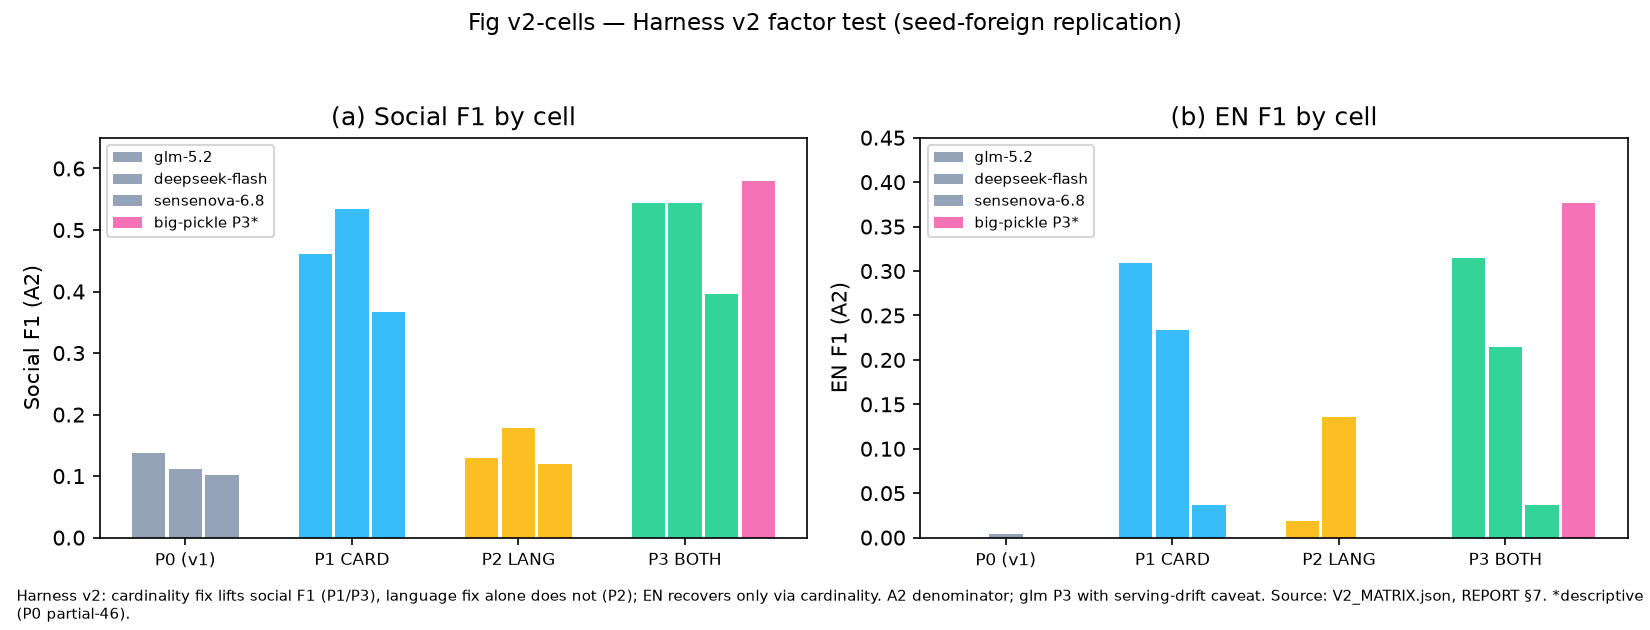
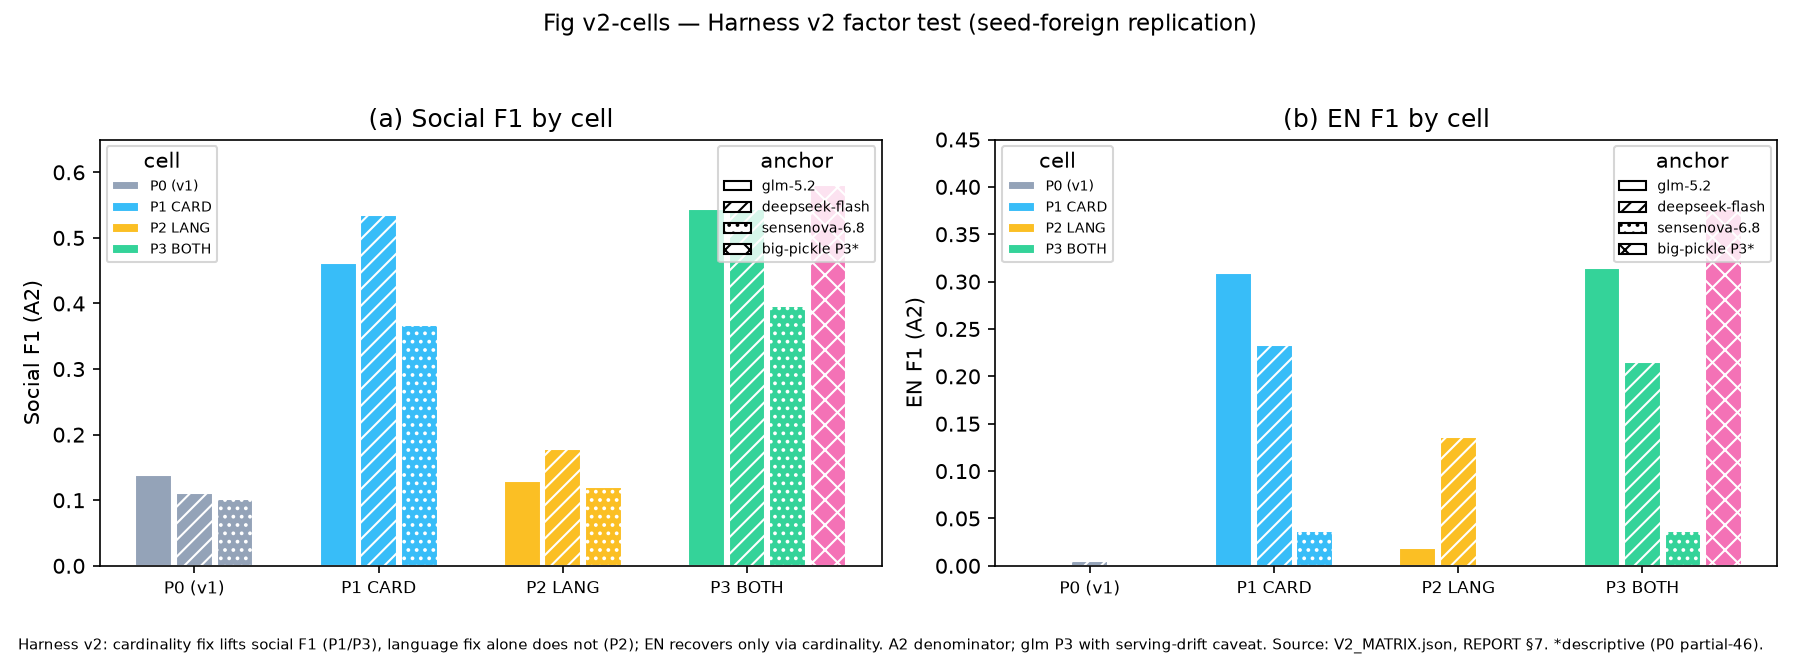
Fix fig_v2_cells legend lie: color=cell + hatch=anchor with dual legends; portal caption gains color key (3 langs) (local-only)

diff --git a/_deploy/portal/index.html b/_deploy/portal/index.html
@@ -1292,7 +1292,7 @@ paint();
   <div class="fig-row" style="margin-top:24px">
     <div class="figure-box">
       <img src="../figures/fig_v2_cells.png" alt="Fig v2-cells: Harness v2 factor test" onclick="openLightbox(this.src)" loading="lazy">
-      <div class="fig-label" data-i18n="method_figv2"><strong>Fig v2-cells</strong> — Seed-foreign factor test (2026-09): cardinality fix lifts social F1 to 0.40–0.58 (P1/P3); language-only fix ≈0 (P2, model-side); EN recovers via cardinality only. A2 denominator; glm P3 with serving-drift caveat. Source: V2_MATRIX.json, REPORT §7.</div>
+      <div class="fig-label" data-i18n="method_figv2"><strong>Fig v2-cells</strong> — Seed-foreign factor test (2026-09): cardinality fix lifts social F1 to 0.40–0.58 (P1/P3); language-only fix ≈0 (P2, model-side); EN recovers via cardinality only. Colors = cells (grey P0, blue P1, amber P2, green P3); hatches = anchors (plain glm-5.2, slashed deepseek-flash, dotted sensenova-6.8; cross-hatched pink big-pickle P3 descriptive). A2 denominator; glm P3 with serving-drift caveat. Source: V2_MATRIX.json, REPORT §7.</div>
     </div>
   </div>
 
@@ -2014,7 +2014,7 @@ const TRANSLATIONS = {
     metric_lds: 'Cross-language structural divergence. 0 = identical, 1 = completely different.',
     metric_cs: 'Textbook-curriculum alignment. How much of the official curriculum textbooks actually cover.',
     method_fig2: '<strong>Fig 2</strong> — How LDS is computed: two language graphs, alignment, two similarity components',
-    method_figv2: '<strong>Fig v2-cells</strong> — Seed-foreign factor test (2026-09): cardinality fix lifts social F1 to 0.40–0.58 (P1/P3); language-only fix ≈0 (P2, model-side); EN recovers via cardinality only. A2 denominator; glm P3 with serving-drift caveat. Source: V2_MATRIX.json, REPORT §7.',
+    method_figv2: '<strong>Fig v2-cells</strong> — Seed-foreign factor test (2026-09): cardinality fix lifts social F1 to 0.40–0.58 (P1/P3); language-only fix ≈0 (P2, model-side); EN recovers via cardinality only. Colors = cells (grey P0, blue P1, amber P2, green P3); hatches = anchors (plain glm-5.2, slashed deepseek-flash, dotted sensenova-6.8; cross-hatched pink big-pickle P3 descriptive). A2 denominator; glm P3 with serving-drift caveat. Source: V2_MATRIX.json, REPORT §7.',
     glos_sum: 'Baseline-Glossar: 9 reference lines every finding is measured against',
     method_prov_note: 'Provenance: production extraction model selected by 19-model benchmark (F1=0.666, qwen-plus); served-API revisions are provider-side; weight snapshot research/weight_snapshot_20260916.json, details paper App. W.',
     f12_prov_note: 'F12 note: the Two-Tier vector baseline uses nomic embeddings only and is unaffected by the design-vs-execution judge swap (design phi-4-mini-instruct vs execution muse-spark-1.3-contributor); see paper §2.12 and App. W.',
@@ -2342,7 +2342,7 @@ const TRANSLATIONS = {
     metric_lds: 'Sprachuebergreifende Strukturdivergenz. 0 = identisch, 1 = voellig unterschiedlich.',
     metric_cs: 'Lehrbuch-Lehrplan-Abgleich. Wie viel des offiziellen Lehrplans von Lehrbuechern abgedeckt wird.',
     method_fig2: '<strong>Abb. 2</strong> — So wird LDS berechnet: zwei Sprachgraphen, Alignierung, zwei Aehnlichkeitskomponenten',
-    method_figv2: '<strong>Abb. v2-cells</strong> — Seed-fremder Faktortest (2026-09): Kardinalitaets-Fix hebt Social-F1 auf 0,40–0,58 (P1/P3); Sprach-Fix allein ≈0 (P2, modellseitig); EN nur via Kardinalitaet. A2-Nenner; glm-P3 mit Serving-Drift-Caveat. Quelle: V2_MATRIX.json, REPORT §7.',
+    method_figv2: '<strong>Abb. v2-cells</strong> — Seed-fremder Faktortest (2026-09): Kardinalitaets-Fix hebt Social-F1 auf 0,40–0,58 (P1/P3); Sprach-Fix allein ≈0 (P2, modellseitig); EN nur via Kardinalitaet. Farben = Zellen (grau P0, blau P1, amber P2, gruen P3); Schraffuren = Anker (glatt glm-5.2, schraffiert deepseek-flash, gepunktet sensenova-6.8; kreuzschraffiert pink big-pickle P3 deskriptiv). A2-Nenner; glm-P3 mit Serving-Drift-Caveat. Quelle: V2_MATRIX.json, REPORT §7.',
     glos_sum: 'Baseline-Glossar: 9 Referenzlinien, an denen jeder Befund gemessen wird',
     method_prov_note: 'Provenienz: Produktions-Extraktionsmodell per 19-Modell-Benchmark gewählt (F1=0.666, qwen-plus); served-API-Revisionen sind Provider-seitig; Weight-Snapshot research/weight_snapshot_20260916.json, Details Anhang W.',
     f12_prov_note: 'F12-Hinweis: Die Two-Tier-Vektorbaseline nutzt nur nomic-Embeddings und ist vom Design-vs-Execution-Richtertausch unberührt (Design phi-4-mini-instruct vs. Ausführung muse-spark-1.3-contributor); s. §2.12 und Anhang W.',
@@ -2671,7 +2671,7 @@ curr_explanations_title: '三种竞争性解释',
     metric_lds: '跨语言结构差异。0 = 完全相同，1 = 完全不同。',
     metric_cs: '教材与课程的对齐程度。课程内容有多少被教材实际覆盖。',
     method_fig2: '<strong>图 2</strong>——LDS 怎么算的：两个语言图谱、对齐、两个相似度分量',
-    method_figv2: '<strong>图 v2-cells</strong>——跨种子因子实验（2026-09）：基数修复把社会 F1 抬到 0.40–0.58（P1/P3）；纯语言修复≈0（P2，模型侧）；英文仅随基数回升。A2 分母；glm P3 带服务漂移 caveat。来源：V2_MATRIX.json，REPORT §7。',
+    method_figv2: '<strong>图 v2-cells</strong>——跨种子因子实验（2026-09）：基数修复把社会 F1 抬到 0.40–0.58（P1/P3）；纯语言修复≈0（P2，模型侧）；英文仅随基数回升。颜色＝cell（灰 P0、蓝 P1、黄 P2、绿 P3）；底纹＝锚点（素面 glm-5.2、斜线 deepseek-flash、圆点 sensenova-6.8；叉纹粉 big-pickle P3 描述性）。A2 分母；glm P3 带服务漂移 caveat。来源：V2_MATRIX.json，REPORT §7。',
     glos_sum: '基线术语表：所有发现都对照这 9 条参照线度量',
     method_prov_note: '来源说明：生产提取模型经 19 模型基准选定（F1=0.666，qwen-plus）；在线服务版本由提供方控制；权重快照 research/weight_snapshot_20260916.json，详见论文附录 W。',
     f12_prov_note: 'F12 注：Two-Tier 向量基线仅使用 nomic 嵌入，不受设计态与执行态判官替换影响（设计态 phi-4-mini-instruct，对比执行态 muse-spark-1.3-contributor）；见论文 §2.12 与附录 W。',

diff --git a/cognitive-space/portal/index.html b/cognitive-space/portal/index.html
@@ -1292,7 +1292,7 @@ paint();
   <div class="fig-row" style="margin-top:24px">
     <div class="figure-box">
       <img src="../figures/fig_v2_cells.png" alt="Fig v2-cells: Harness v2 factor test" onclick="openLightbox(this.src)" loading="lazy">
-      <div class="fig-label" data-i18n="method_figv2"><strong>Fig v2-cells</strong> — Seed-foreign factor test (2026-09): cardinality fix lifts social F1 to 0.40–0.58 (P1/P3); language-only fix ≈0 (P2, model-side); EN recovers via cardinality only. A2 denominator; glm P3 with serving-drift caveat. Source: V2_MATRIX.json, REPORT §7.</div>
+      <div class="fig-label" data-i18n="method_figv2"><strong>Fig v2-cells</strong> — Seed-foreign factor test (2026-09): cardinality fix lifts social F1 to 0.40–0.58 (P1/P3); language-only fix ≈0 (P2, model-side); EN recovers via cardinality only. Colors = cells (grey P0, blue P1, amber P2, green P3); hatches = anchors (plain glm-5.2, slashed deepseek-flash, dotted sensenova-6.8; cross-hatched pink big-pickle P3 descriptive). A2 denominator; glm P3 with serving-drift caveat. Source: V2_MATRIX.json, REPORT §7.</div>
     </div>
   </div>
 
@@ -2014,7 +2014,7 @@ const TRANSLATIONS = {
     metric_lds: 'Cross-language structural divergence. 0 = identical, 1 = completely different.',
     metric_cs: 'Textbook-curriculum alignment. How much of the official curriculum textbooks actually cover.',
     method_fig2: '<strong>Fig 2</strong> — How LDS is computed: two language graphs, alignment, two similarity components',
-    method_figv2: '<strong>Fig v2-cells</strong> — Seed-foreign factor test (2026-09): cardinality fix lifts social F1 to 0.40–0.58 (P1/P3); language-only fix ≈0 (P2, model-side); EN recovers via cardinality only. A2 denominator; glm P3 with serving-drift caveat. Source: V2_MATRIX.json, REPORT §7.',
+    method_figv2: '<strong>Fig v2-cells</strong> — Seed-foreign factor test (2026-09): cardinality fix lifts social F1 to 0.40–0.58 (P1/P3); language-only fix ≈0 (P2, model-side); EN recovers via cardinality only. Colors = cells (grey P0, blue P1, amber P2, green P3); hatches = anchors (plain glm-5.2, slashed deepseek-flash, dotted sensenova-6.8; cross-hatched pink big-pickle P3 descriptive). A2 denominator; glm P3 with serving-drift caveat. Source: V2_MATRIX.json, REPORT §7.',
     glos_sum: 'Baseline-Glossar: 9 reference lines every finding is measured against',
     method_prov_note: 'Provenance: production extraction model selected by 19-model benchmark (F1=0.666, qwen-plus); served-API revisions are provider-side; weight snapshot research/weight_snapshot_20260916.json, details paper App. W.',
     f12_prov_note: 'F12 note: the Two-Tier vector baseline uses nomic embeddings only and is unaffected by the design-vs-execution judge swap (design phi-4-mini-instruct vs execution muse-spark-1.3-contributor); see paper §2.12 and App. W.',
@@ -2342,7 +2342,7 @@ const TRANSLATIONS = {
     metric_lds: 'Sprachuebergreifende Strukturdivergenz. 0 = identisch, 1 = voellig unterschiedlich.',
     metric_cs: 'Lehrbuch-Lehrplan-Abgleich. Wie viel des offiziellen Lehrplans von Lehrbuechern abgedeckt wird.',
     method_fig2: '<strong>Abb. 2</strong> — So wird LDS berechnet: zwei Sprachgraphen, Alignierung, zwei Aehnlichkeitskomponenten',
-    method_figv2: '<strong>Abb. v2-cells</strong> — Seed-fremder Faktortest (2026-09): Kardinalitaets-Fix hebt Social-F1 auf 0,40–0,58 (P1/P3); Sprach-Fix allein ≈0 (P2, modellseitig); EN nur via Kardinalitaet. A2-Nenner; glm-P3 mit Serving-Drift-Caveat. Quelle: V2_MATRIX.json, REPORT §7.',
+    method_figv2: '<strong>Abb. v2-cells</strong> — Seed-fremder Faktortest (2026-09): Kardinalitaets-Fix hebt Social-F1 auf 0,40–0,58 (P1/P3); Sprach-Fix allein ≈0 (P2, modellseitig); EN nur via Kardinalitaet. Farben = Zellen (grau P0, blau P1, amber P2, gruen P3); Schraffuren = Anker (glatt glm-5.2, schraffiert deepseek-flash, gepunktet sensenova-6.8; kreuzschraffiert pink big-pickle P3 deskriptiv). A2-Nenner; glm-P3 mit Serving-Drift-Caveat. Quelle: V2_MATRIX.json, REPORT §7.',
     glos_sum: 'Baseline-Glossar: 9 Referenzlinien, an denen jeder Befund gemessen wird',
     method_prov_note: 'Provenienz: Produktions-Extraktionsmodell per 19-Modell-Benchmark gewählt (F1=0.666, qwen-plus); served-API-Revisionen sind Provider-seitig; Weight-Snapshot research/weight_snapshot_20260916.json, Details Anhang W.',
     f12_prov_note: 'F12-Hinweis: Die Two-Tier-Vektorbaseline nutzt nur nomic-Embeddings und ist vom Design-vs-Execution-Richtertausch unberührt (Design phi-4-mini-instruct vs. Ausführung muse-spark-1.3-contributor); s. §2.12 und Anhang W.',
@@ -2671,7 +2671,7 @@ curr_explanations_title: '三种竞争性解释',
     metric_lds: '跨语言结构差异。0 = 完全相同，1 = 完全不同。',
     metric_cs: '教材与课程的对齐程度。课程内容有多少被教材实际覆盖。',
     method_fig2: '<strong>图 2</strong>——LDS 怎么算的：两个语言图谱、对齐、两个相似度分量',
-    method_figv2: '<strong>图 v2-cells</strong>——跨种子因子实验（2026-09）：基数修复把社会 F1 抬到 0.40–0.58（P1/P3）；纯语言修复≈0（P2，模型侧）；英文仅随基数回升。A2 分母；glm P3 带服务漂移 caveat。来源：V2_MATRIX.json，REPORT §7。',
+    method_figv2: '<strong>图 v2-cells</strong>——跨种子因子实验（2026-09）：基数修复把社会 F1 抬到 0.40–0.58（P1/P3）；纯语言修复≈0（P2，模型侧）；英文仅随基数回升。颜色＝cell（灰 P0、蓝 P1、黄 P2、绿 P3）；底纹＝锚点（素面 glm-5.2、斜线 deepseek-flash、圆点 sensenova-6.8；叉纹粉 big-pickle P3 描述性）。A2 分母；glm P3 带服务漂移 caveat。来源：V2_MATRIX.json，REPORT §7。',
     glos_sum: '基线术语表：所有发现都对照这 9 条参照线度量',
     method_prov_note: '来源说明：生产提取模型经 19 模型基准选定（F1=0.666，qwen-plus）；在线服务版本由提供方控制；权重快照 research/weight_snapshot_20260916.json，详见论文附录 W。',
     f12_prov_note: 'F12 注：Two-Tier 向量基线仅使用 nomic 嵌入，不受设计态与执行态判官替换影响（设计态 phi-4-mini-instruct，对比执行态 muse-spark-1.3-contributor）；见论文 §2.12 与附录 W。',

diff --git a/_deploy/index.html b/_deploy/index.html
@@ -1292,7 +1292,7 @@ paint();
   <div class="fig-row" style="margin-top:24px">
     <div class="figure-box">
       <img src="figures/fig_v2_cells.png" alt="Fig v2-cells: Harness v2 factor test" onclick="openLightbox(this.src)" loading="lazy">
-      <div class="fig-label" data-i18n="method_figv2"><strong>Fig v2-cells</strong> — Seed-foreign factor test (2026-09): cardinality fix lifts social F1 to 0.40–0.58 (P1/P3); language-only fix ≈0 (P2, model-side); EN recovers via cardinality only. A2 denominator; glm P3 with serving-drift caveat. Source: V2_MATRIX.json, REPORT §7.</div>
+      <div class="fig-label" data-i18n="method_figv2"><strong>Fig v2-cells</strong> — Seed-foreign factor test (2026-09): cardinality fix lifts social F1 to 0.40–0.58 (P1/P3); language-only fix ≈0 (P2, model-side); EN recovers via cardinality only. Colors = cells (grey P0, blue P1, amber P2, green P3); hatches = anchors (plain glm-5.2, slashed deepseek-flash, dotted sensenova-6.8; cross-hatched pink big-pickle P3 descriptive). A2 denominator; glm P3 with serving-drift caveat. Source: V2_MATRIX.json, REPORT §7.</div>
     </div>
   </div>
 
@@ -2014,7 +2014,7 @@ const TRANSLATIONS = {
     metric_lds: 'Cross-language structural divergence. 0 = identical, 1 = completely different.',
     metric_cs: 'Textbook-curriculum alignment. How much of the official curriculum textbooks actually cover.',
     method_fig2: '<strong>Fig 2</strong> — How LDS is computed: two language graphs, alignment, two similarity components',
-    method_figv2: '<strong>Fig v2-cells</strong> — Seed-foreign factor test (2026-09): cardinality fix lifts social F1 to 0.40–0.58 (P1/P3); language-only fix ≈0 (P2, model-side); EN recovers via cardinality only. A2 denominator; glm P3 with serving-drift caveat. Source: V2_MATRIX.json, REPORT §7.',
+    method_figv2: '<strong>Fig v2-cells</strong> — Seed-foreign factor test (2026-09): cardinality fix lifts social F1 to 0.40–0.58 (P1/P3); language-only fix ≈0 (P2, model-side); EN recovers via cardinality only. Colors = cells (grey P0, blue P1, amber P2, green P3); hatches = anchors (plain glm-5.2, slashed deepseek-flash, dotted sensenova-6.8; cross-hatched pink big-pickle P3 descriptive). A2 denominator; glm P3 with serving-drift caveat. Source: V2_MATRIX.json, REPORT §7.',
     glos_sum: 'Baseline-Glossar: 9 reference lines every finding is measured against',
     method_prov_note: 'Provenance: production extraction model selected by 19-model benchmark (F1=0.666, qwen-plus); served-API revisions are provider-side; weight snapshot research/weight_snapshot_20260916.json, details paper App. W.',
     f12_prov_note: 'F12 note: the Two-Tier vector baseline uses nomic embeddings only and is unaffected by the design-vs-execution judge swap (design phi-4-mini-instruct vs execution muse-spark-1.3-contributor); see paper §2.12 and App. W.',
@@ -2342,7 +2342,7 @@ const TRANSLATIONS = {
     metric_lds: 'Sprachuebergreifende Strukturdivergenz. 0 = identisch, 1 = voellig unterschiedlich.',
     metric_cs: 'Lehrbuch-Lehrplan-Abgleich. Wie viel des offiziellen Lehrplans von Lehrbuechern abgedeckt wird.',
     method_fig2: '<strong>Abb. 2</strong> — So wird LDS berechnet: zwei Sprachgraphen, Alignierung, zwei Aehnlichkeitskomponenten',
-    method_figv2: '<strong>Abb. v2-cells</strong> — Seed-fremder Faktortest (2026-09): Kardinalitaets-Fix hebt Social-F1 auf 0,40–0,58 (P1/P3); Sprach-Fix allein ≈0 (P2, modellseitig); EN nur via Kardinalitaet. A2-Nenner; glm-P3 mit Serving-Drift-Caveat. Quelle: V2_MATRIX.json, REPORT §7.',
+    method_figv2: '<strong>Abb. v2-cells</strong> — Seed-fremder Faktortest (2026-09): Kardinalitaets-Fix hebt Social-F1 auf 0,40–0,58 (P1/P3); Sprach-Fix allein ≈0 (P2, modellseitig); EN nur via Kardinalitaet. Farben = Zellen (grau P0, blau P1, amber P2, gruen P3); Schraffuren = Anker (glatt glm-5.2, schraffiert deepseek-flash, gepunktet sensenova-6.8; kreuzschraffiert pink big-pickle P3 deskriptiv). A2-Nenner; glm-P3 mit Serving-Drift-Caveat. Quelle: V2_MATRIX.json, REPORT §7.',
     glos_sum: 'Baseline-Glossar: 9 Referenzlinien, an denen jeder Befund gemessen wird',
     method_prov_note: 'Provenienz: Produktions-Extraktionsmodell per 19-Modell-Benchmark gewählt (F1=0.666, qwen-plus); served-API-Revisionen sind Provider-seitig; Weight-Snapshot research/weight_snapshot_20260916.json, Details Anhang W.',
     f12_prov_note: 'F12-Hinweis: Die Two-Tier-Vektorbaseline nutzt nur nomic-Embeddings und ist vom Design-vs-Execution-Richtertausch unberührt (Design phi-4-mini-instruct vs. Ausführung muse-spark-1.3-contributor); s. §2.12 und Anhang W.',
@@ -2671,7 +2671,7 @@ curr_explanations_title: '三种竞争性解释',
     metric_lds: '跨语言结构差异。0 = 完全相同，1 = 完全不同。',
     metric_cs: '教材与课程的对齐程度。课程内容有多少被教材实际覆盖。',
     method_fig2: '<strong>图 2</strong>——LDS 怎么算的：两个语言图谱、对齐、两个相似度分量',
-    method_figv2: '<strong>图 v2-cells</strong>——跨种子因子实验（2026-09）：基数修复把社会 F1 抬到 0.40–0.58（P1/P3）；纯语言修复≈0（P2，模型侧）；英文仅随基数回升。A2 分母；glm P3 带服务漂移 caveat。来源：V2_MATRIX.json，REPORT §7。',
+    method_figv2: '<strong>图 v2-cells</strong>——跨种子因子实验（2026-09）：基数修复把社会 F1 抬到 0.40–0.58（P1/P3）；纯语言修复≈0（P2，模型侧）；英文仅随基数回升。颜色＝cell（灰 P0、蓝 P1、黄 P2、绿 P3）；底纹＝锚点（素面 glm-5.2、斜线 deepseek-flash、圆点 sensenova-6.8；叉纹粉 big-pickle P3 描述性）。A2 分母；glm P3 带服务漂移 caveat。来源：V2_MATRIX.json，REPORT §7。',
     glos_sum: '基线术语表：所有发现都对照这 9 条参照线度量',
     method_prov_note: '来源说明：生产提取模型经 19 模型基准选定（F1=0.666，qwen-plus）；在线服务版本由提供方控制；权重快照 research/weight_snapshot_20260916.json，详见论文附录 W。',
     f12_prov_note: 'F12 注：Two-Tier 向量基线仅使用 nomic 嵌入，不受设计态与执行态判官替换影响（设计态 phi-4-mini-instruct，对比执行态 muse-spark-1.3-contributor）；见论文 §2.12 与附录 W。',

diff --git a/scripts/figures/fig_v2_cells.py b/scripts/figures/fig_v2_cells.py
@@ -10,6 +10,8 @@ import matplotlib
 matplotlib.use("Agg")
 import matplotlib.pyplot as plt
 
+import matplotlib.patches as mpatches
+
 BASE = os.path.dirname(os.path.dirname(os.path.dirname(os.path.abspath(__file__))))
 OUT = os.path.join(BASE, "outputs", "figures")
 os.makedirs(OUT, exist_ok=True)
@@ -27,7 +29,10 @@ EN = {
 }
 BP_SOC, BP_EN = 0.5804, 0.3765  # big-pickle P3 descriptive (partial-46 P0 control)
 CELLS = ["P0 (v1)", "P1 CARD", "P2 LANG", "P3 BOTH"]
-COL = ["#94a3b8", "#38bdf8", "#fbbf24", "#34d399"]
+CELL_COL = ["#94a3b8", "#38bdf8", "#fbbf24", "#34d399"]  # color = cell
+ANCHORS = ["glm-5.2", "deepseek-flash", "sensenova-6.8"]
+HATCH = ["", "///", "..."]  # hatch = anchor
+BP_COL, BP_HATCH = "#f472b6", "xx"
 
 CAPTIONS = {
     "": ("Harness v2: cardinality fix lifts social F1 (P1/P3), language fix alone does not (P2); "
@@ -47,26 +52,37 @@ for suf in ("", "_de", "_zh"):
     plt.rcParams.update({"font.family": "sans-serif",
                          "font.sans-serif": (["Microsoft YaHei", "SimSun", "DejaVu Sans"]
                                              if suf == "_zh" else ["DejaVu Sans"])})
-    fig, ax = plt.subplots(1, 2, figsize=(11, 4.2))
+    fig, ax = plt.subplots(1, 2, figsize=(12, 4.4))
     x = range(4)
-    for i, (a, v) in enumerate(SOC.items()):
-        ax[0].bar([p + (i - 1) * 0.22 for p in x], v, width=0.2, color=COL, label=a)
-    ax[0].bar([3 + 2 * 0.22], [BP_SOC], width=0.2, color="#f472b6", label="big-pickle P3*")
+    for i, a in enumerate(ANCHORS):
+        v = SOC[a]
+        ax[0].bar([p + (i - 1) * 0.22 for p in x], v, width=0.2,
+                  color=CELL_COL, hatch=HATCH[i], edgecolor="white")
+    ax[0].bar([3 + 2 * 0.22], [BP_SOC], width=0.2, color=BP_COL, hatch=BP_HATCH, edgecolor="white")
     ax[0].set_xticks(list(x));
     ax[0].set_xticklabels(CELLS, fontsize=8)
     ax[0].set_ylim(0, 0.65);
     ax[0].set_title(TITLES[suf][0]);
-    ax[0].legend(fontsize=7);
     ax[0].set_ylabel("Social F1 (A2)")
-    for i, (a, v) in enumerate(EN.items()):
-        ax[1].bar([p + (i - 1) * 0.22 for p in x], v, width=0.2, color=COL, label=a)
-    ax[1].bar([3 + 2 * 0.22], [BP_EN], width=0.2, color="#f472b6", label="big-pickle P3*")
+    for i, a in enumerate(ANCHORS):
+        v = EN[a]
+        ax[1].bar([p + (i - 1) * 0.22 for p in x], v, width=0.2,
+                  color=CELL_COL, hatch=HATCH[i], edgecolor="white")
+    ax[1].bar([3 + 2 * 0.22], [BP_EN], width=0.2, color=BP_COL, hatch=BP_HATCH, edgecolor="white")
     ax[1].set_xticks(list(x));
     ax[1].set_xticklabels(CELLS, fontsize=8)
     ax[1].set_ylim(0, 0.45);
     ax[1].set_title(TITLES[suf][1]);
-    ax[1].legend(fontsize=7);
     ax[1].set_ylabel("EN F1 (A2)")
+    for a_ in ax:
+        cell_handles = [mpatches.Patch(facecolor=c, edgecolor="white", label=l)
+                        for c, l in zip(CELL_COL, CELLS)]
+        anchor_handles = [mpatches.Patch(facecolor="white", hatch=h, edgecolor="black", label=l)
+                          for h, l in zip(HATCH + [BP_HATCH],
+                                          ANCHORS + ["big-pickle P3*"])]
+        leg1 = a_.legend(handles=cell_handles, fontsize=6.5, loc="upper left", title="cell")
+        a_.add_artist(leg1)
+        a_.legend(handles=anchor_handles, fontsize=6.5, loc="upper right", title="anchor")
     fig.suptitle("Fig v2-cells — Harness v2 factor test (seed-foreign replication)", fontsize=11)
     fig.text(0.01, 0.01, CAPTIONS[suf] + " *descriptive (P0 partial-46).", fontsize=7, wrap=True,
              ha="left", va="bottom")

diff --git a/docs/PROJECT_SEAL.md b/docs/PROJECT_SEAL.md
@@ -48,6 +48,8 @@ R4 配额恢复 / 有 30 分钟人力 (spot-check) / 有三语人力 (盲审) / 
   (Dots/Count auto, g4-Hash geclampt); `method_prov_note` formal (19-Modell-Benchmark, qwen-plus);
   Mermaid-EXT (MIMO→19-model benchmarked, 3-sprachig); Carousel-minHeight folgt aktivem Slide
   (+Resize-Dispatch bei Sprachwechsel); 24 Orphan-i18n-Zeilen raus.
+- Post-seal Fig-Fix (Tiefenaudit User): `fig_v2_cells` Legende log (Farbe=Cell, Label=Anker) →
+  Farbe=Cell + Schraffur=Anker, Doppel-Legende je Panel; Portal-Caption + Farbschlüssel (3-sprachig).
 - Post-seal Portal-Runde 3 (Show-all-Bug): Inline-`translateX` schlug `.all`-CSS (leere Ansicht ab Seite 2) →
   `paint()` löscht Transform im All-Modus; 收起 scrollt zu Section-Start; Button-Label Show all↔Show less
   (3-sprachig, i18n-sicher); Nav/Keys/Swipe im All-Modus deaktiviert (gedimmt); Count-Init 1/3.
